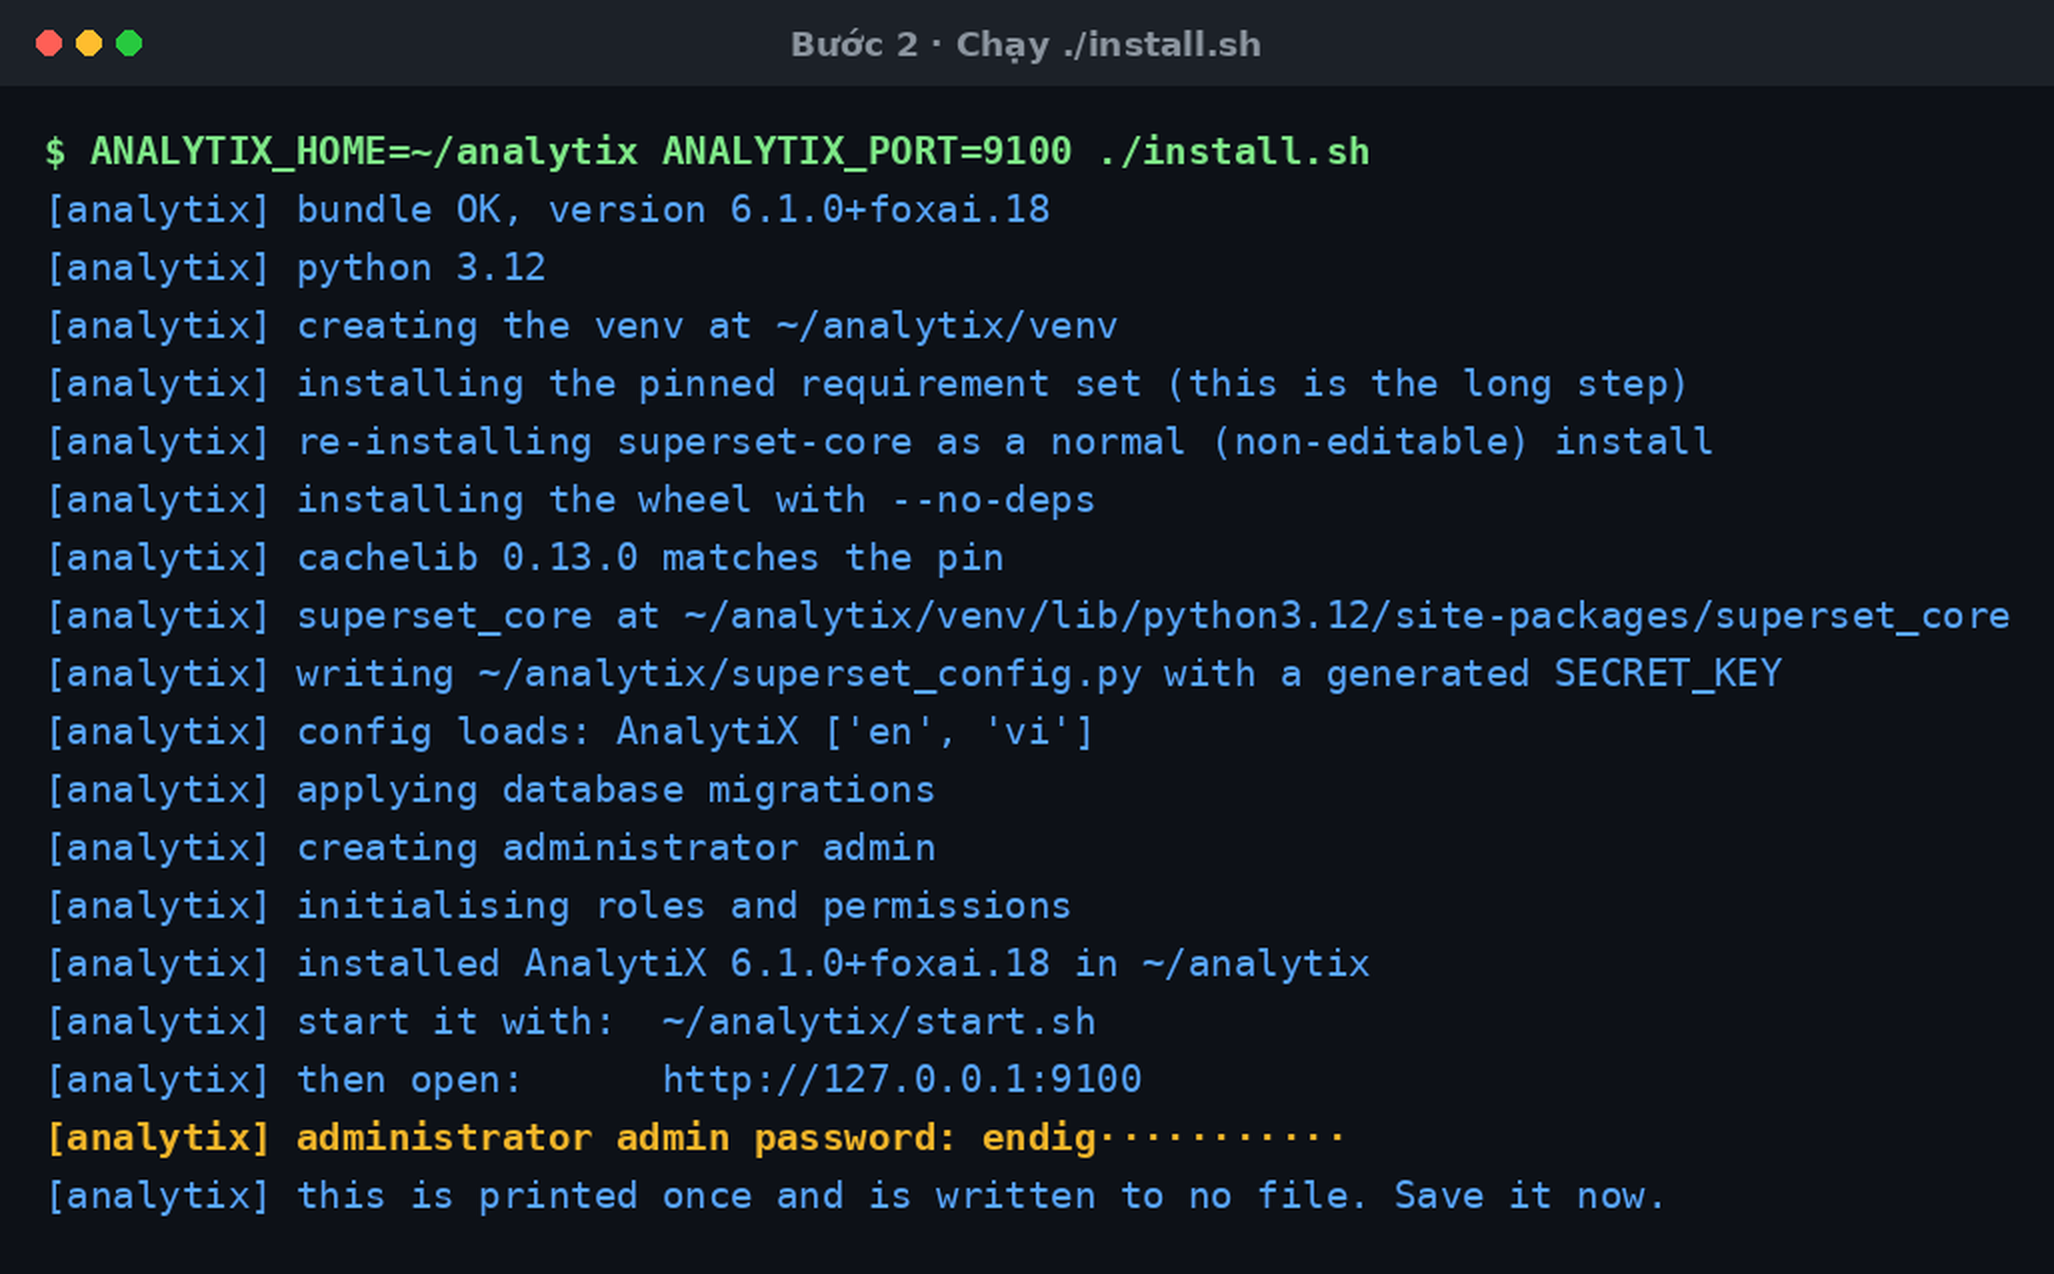
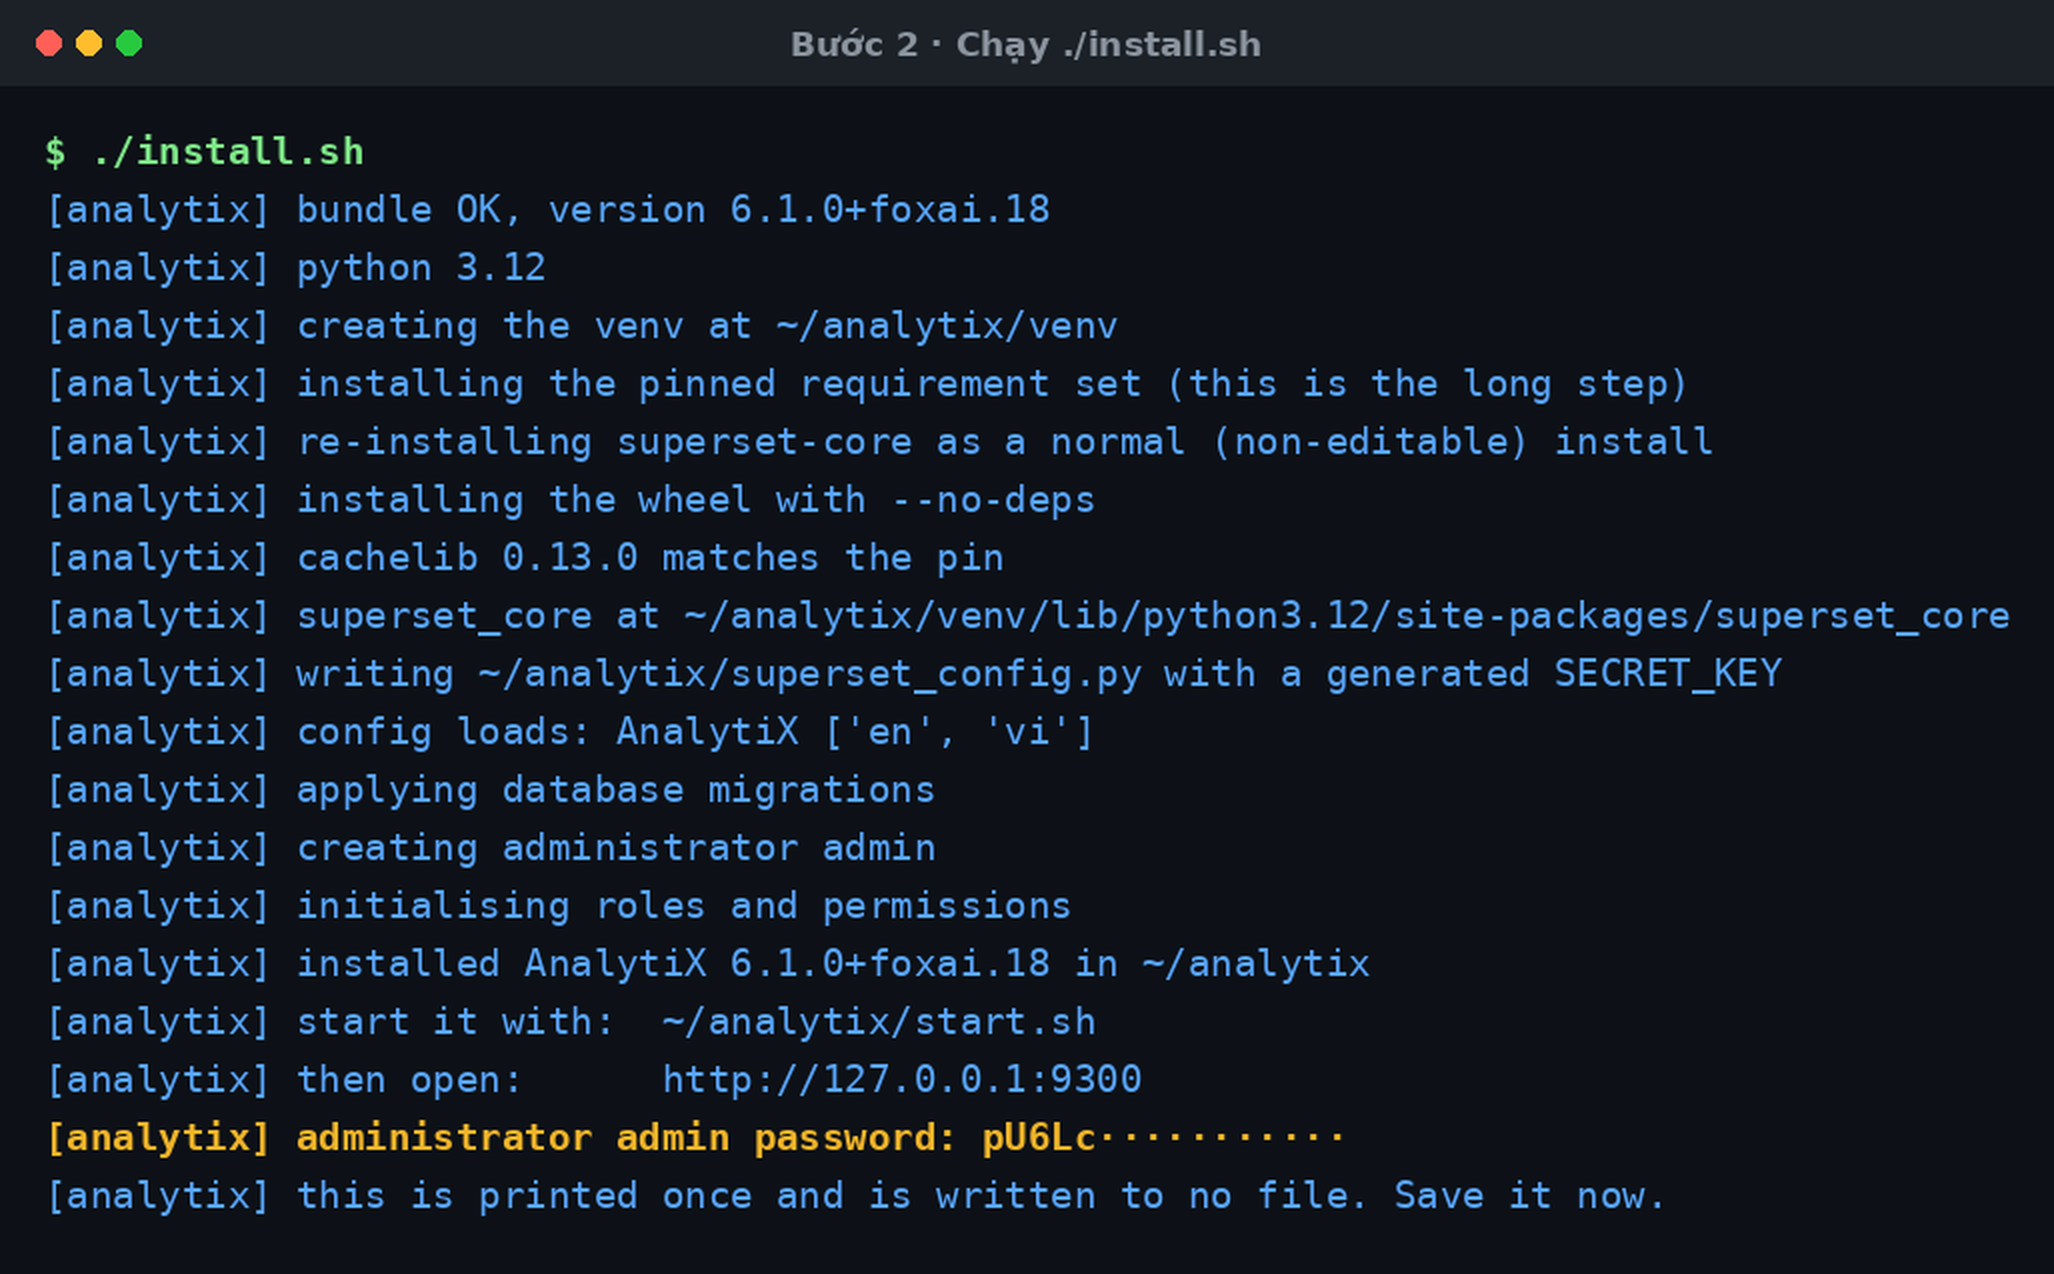
Gỡ cổng nội bộ khỏi ảnh hướng dẫn cài
Hai ảnh ở trang Cài thực trên máy hiện một cổng nằm trong danh sách mẫu
bí mật. Chụp lại trên cổng đã đối chiếu trước.

Changed region(s): [[0.0312, 0.0918, 0.5297, 0.1531], [0.5609, 0.0918, 0.6855, 0.1531], [0.4674, 0.8571, 0.5297, 0.9184]]

diff --git a/docs/how-to/cai-dat-tren-may.md b/docs/how-to/cai-dat-tren-may.md
@@ -53,7 +53,7 @@ khẩu màu vàng ở cuối.
 ~/analytix/start.sh
 ```
 
-![Output start.sh: nạp cấu hình, Running on http://127.0.0.1:9100.](./img/cai-may/03-khoi-dong.png)
+![Output start.sh: nạp cấu hình xong, in dòng Running on kèm địa chỉ.](./img/cai-may/03-khoi-dong.png)
 
 ### 4 · Mở địa chỉ nó in ra
 
